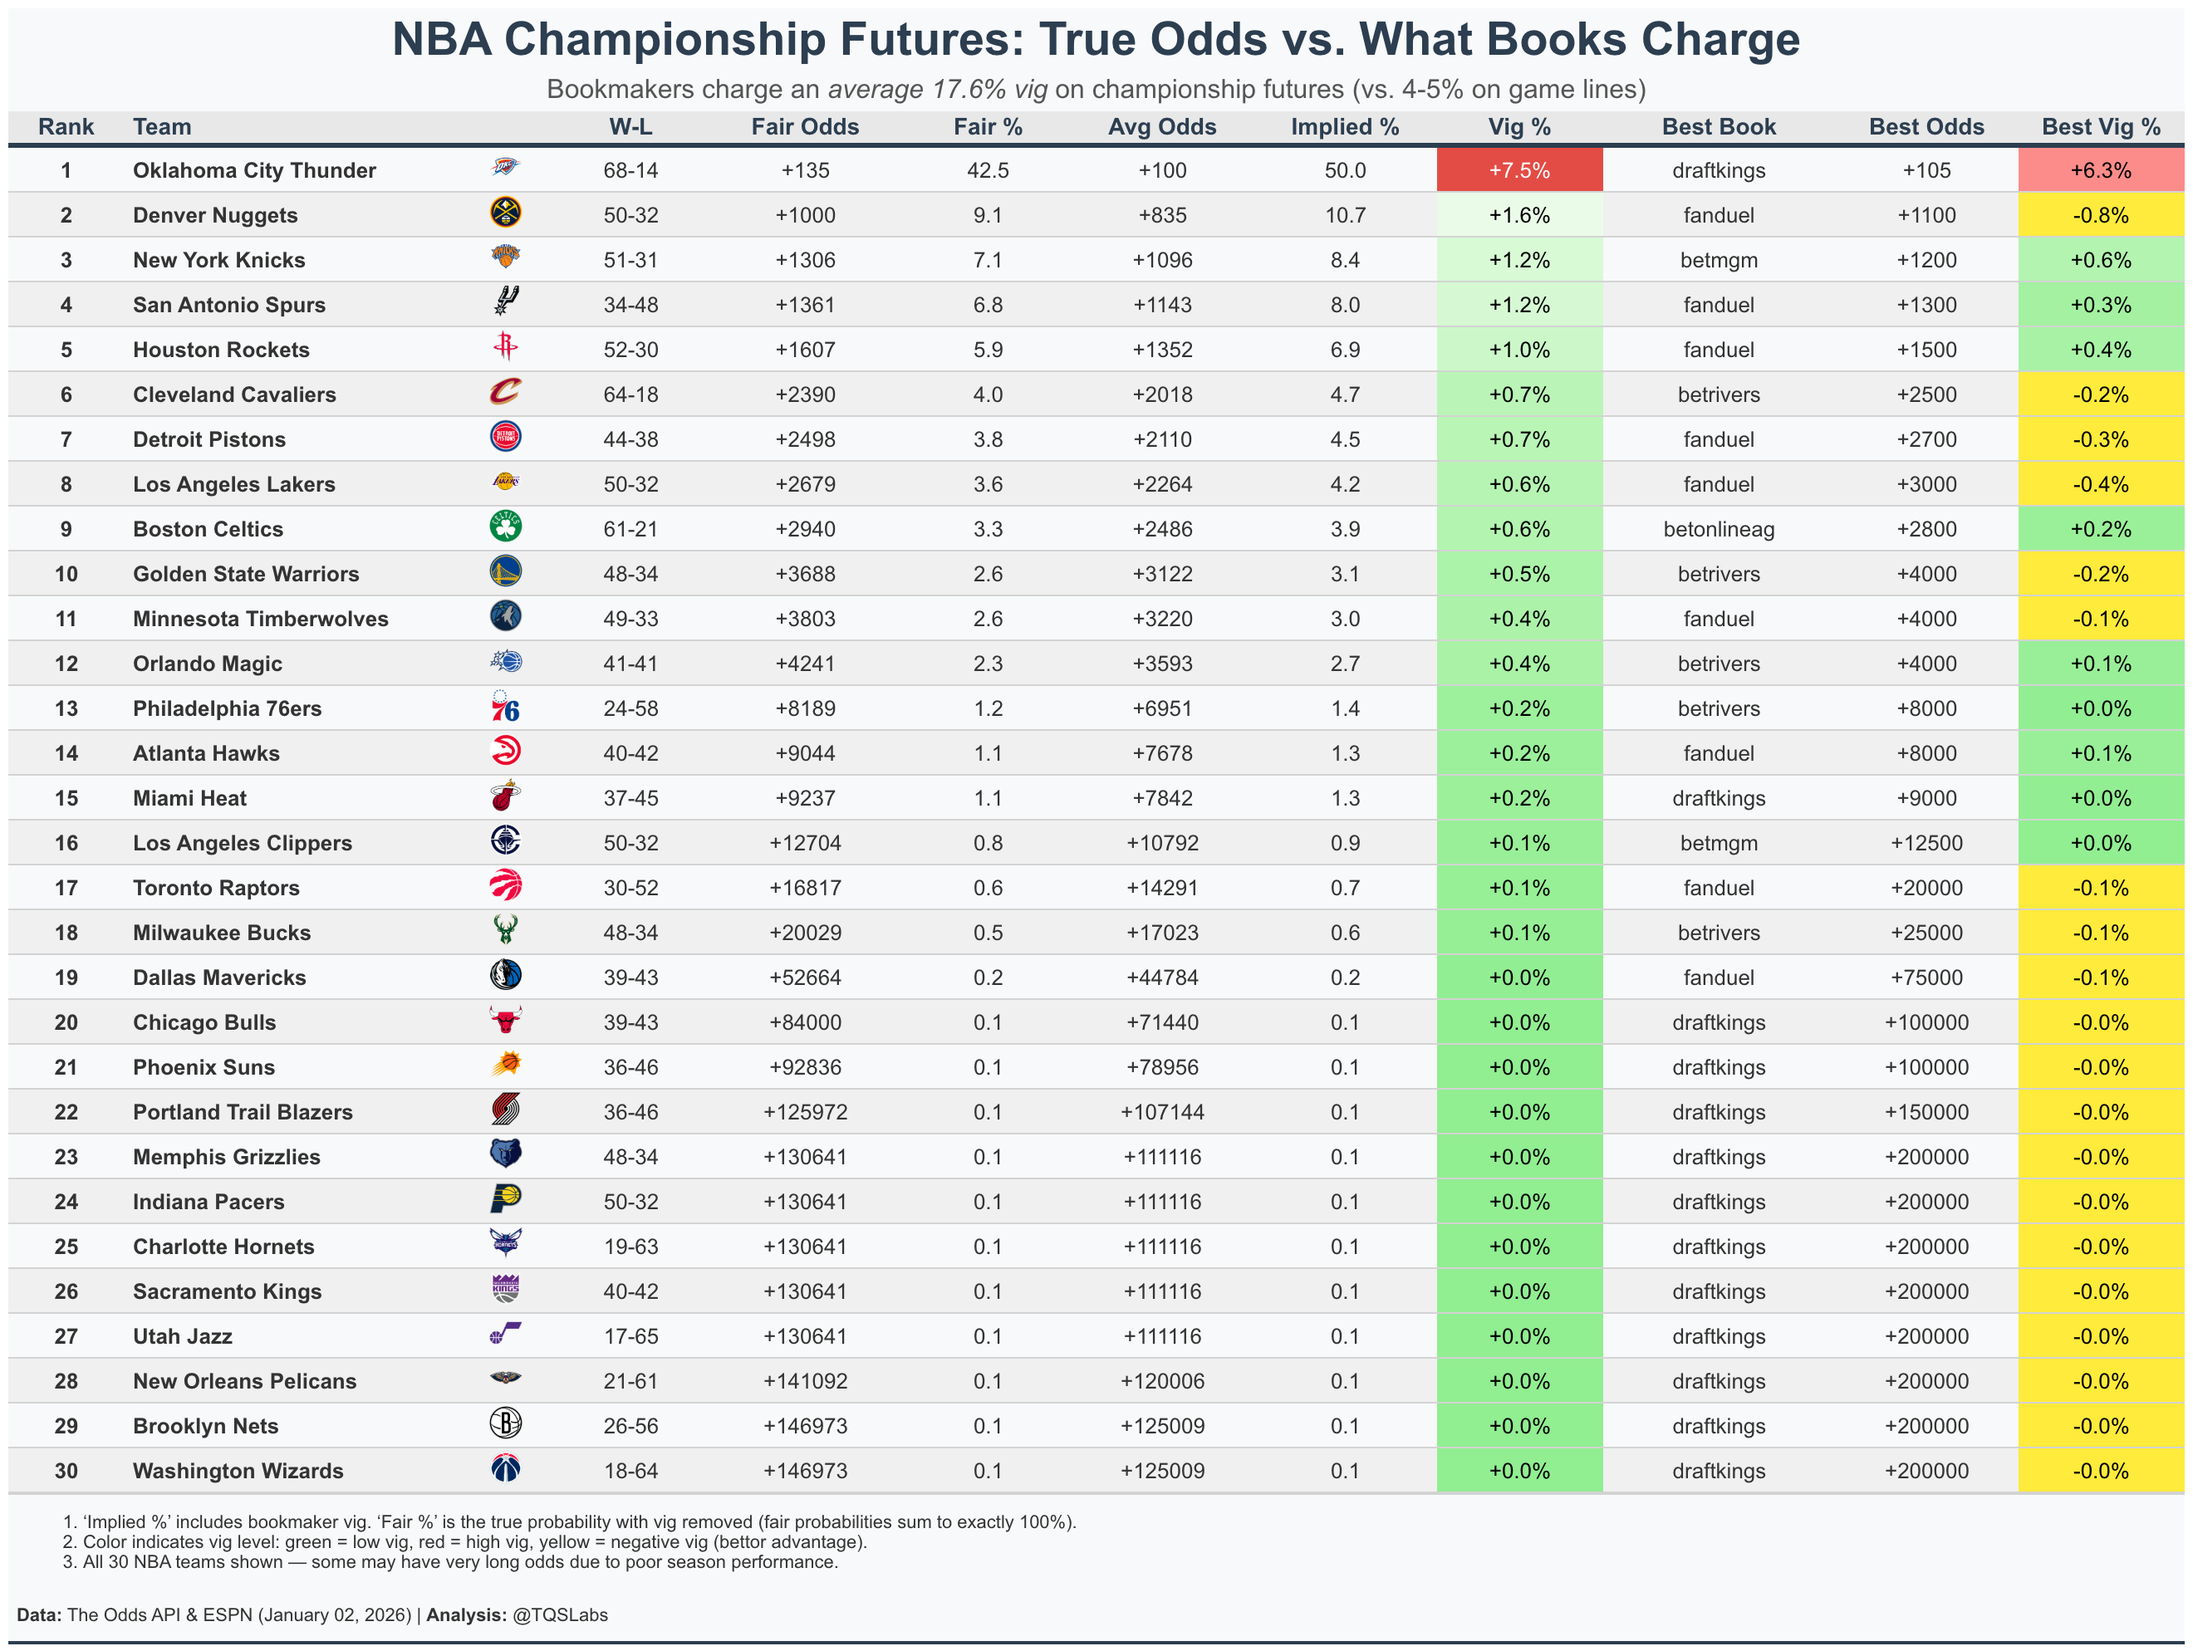
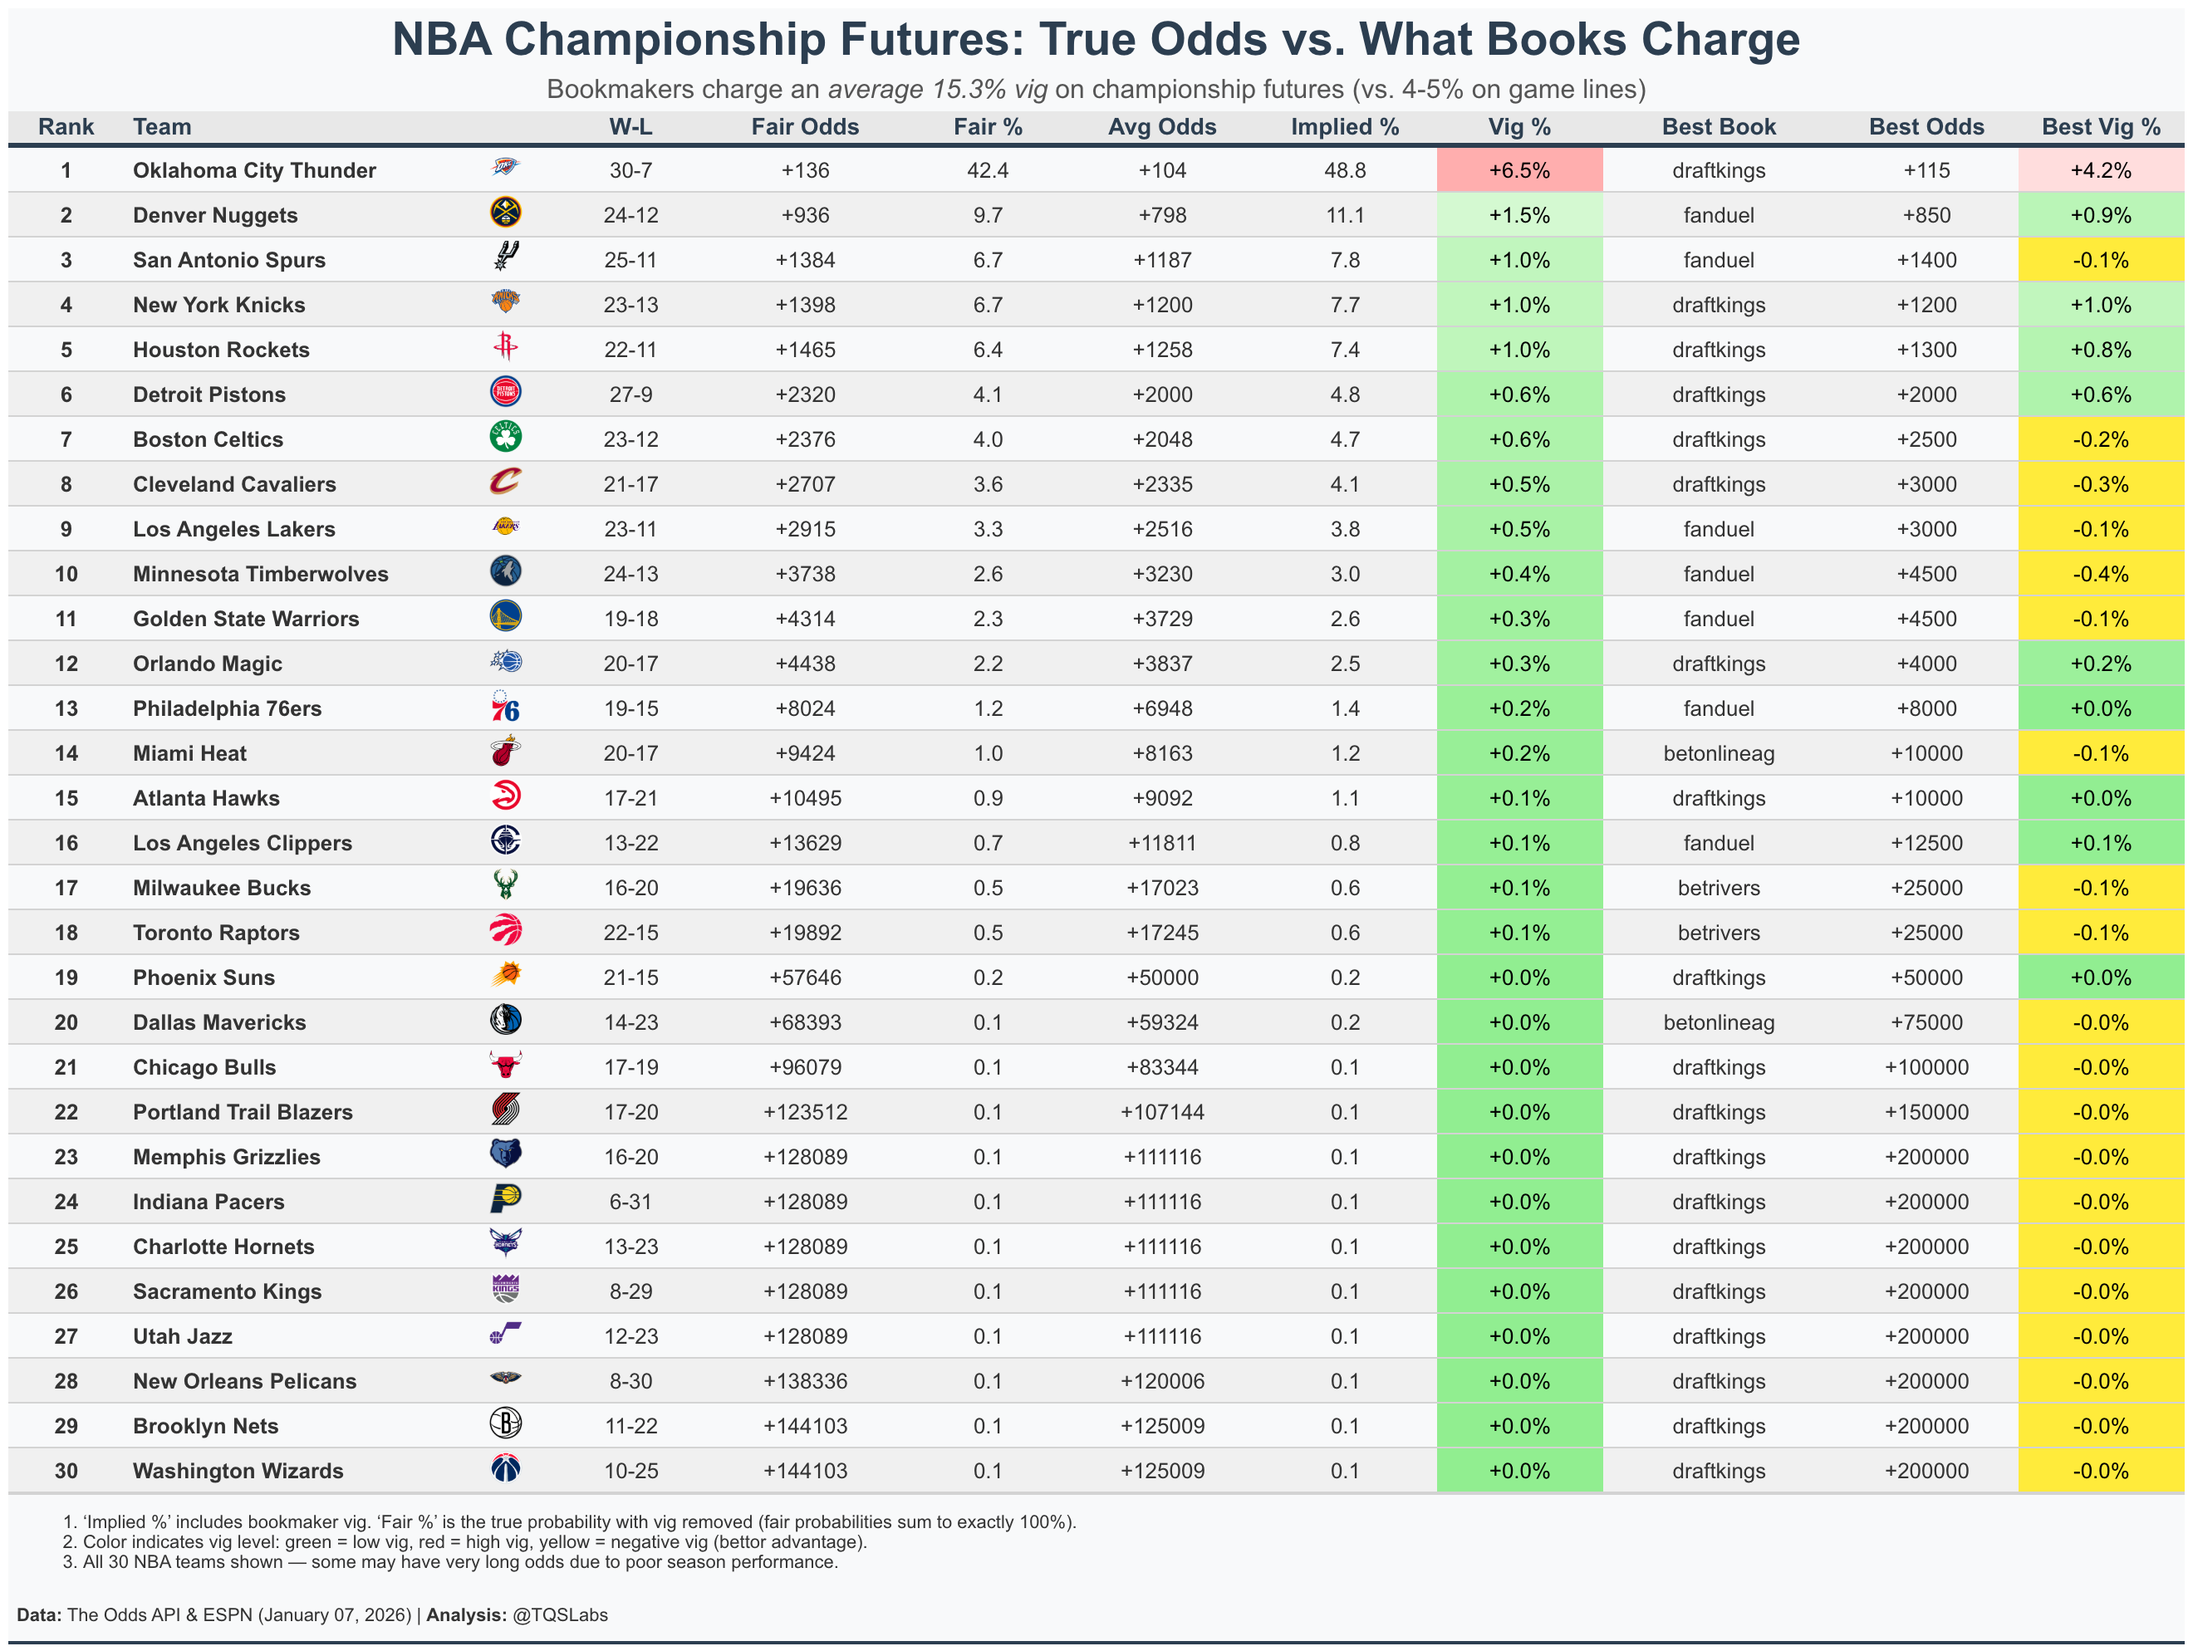
update content

diff --git a/content/writing/x/20260107_nfl_wild_card_luck_plays.md b/content/writing/x/20260107_nfl_wild_card_luck_plays.md
@@ -1,0 +1,38 @@
+wild card plays (model: lucky v unlucky). 39-30 (56.5%) on regular season
+
+card:
+pit +3.5
+lac +4.0
+
+transparency: week 18 was garbage for data (teams resting, meaningless games). applying that to playoffs is a stretch
+
+posting these because that's what the model says, but lower confidence than usual. we'll see if luck regression still applies
+
+---
+
+## Context / Extended Version
+
+Wild Card Round Plays:
+
+**Pittsburgh +3.5** vs Houston
+- PIT unlucky in Week 18 win vs BAL (-4.7 luck: scored 26 exp 22.3, allowed 24 exp 15.6)
+- HOU very lucky vs IND (+5.5 luck: scored 38 exp 24.1, allowed 30 exp 21.6)
+- Best line: +3.5 @ MyBookie (-120)
+- Game: Monday 1/12 8:00 PM ET
+
+**LA Chargers +4.0** vs New England
+- LAC very unlucky vs DEN (-9.6 luck: scored 3 exp 8.6, allowed 19 exp 15.0)
+- NE extremely lucky vs MIA (+11.4 luck: scored 38 exp 40.3, allowed 10 exp 23.7)
+- Best line: +4.0 @ Bovada (-115)
+- Game: Sunday 1/11 8:00 PM ET
+
+---
+
+## Model Notes
+- Threshold: ±3 luck points
+- Data through Week 18
+- 2 out of 6 wild card games qualify as Lucky vs Unlucky matchups
+- Both plays are underdogs (unlucky last week) vs favorites (lucky last week)
+- Season record: 39-30 (56.5%)
+- Week 18 context: Many teams rested starters, now everyone's playing for real
+

diff --git a/content/writing/x/20260107_okc_jazz_line_movement.md b/content/writing/x/20260107_okc_jazz_line_movement.md
@@ -1,0 +1,35 @@
+okc vs utah (tonight 8:10pm ET)
+
+opened: -19.5 to -20
+now: -17.0 to -17.5
+
+2.5-point move toward utah in <1 hour. interesting for a blowout spread
+
+---
+
+## Context / Extended Version
+
+**Utah Jazz @ Oklahoma City Thunder**
+- Game time: Tonight 8:10 PM ET
+- Opening line: OKC -19.5 to -20 across books
+- Current line: OKC -17.0 to -17.5
+- Movement: 2.5 points toward Utah in under 1 hour
+
+**Book-by-Book Current Lines:**
+- BetRivers: OKC -17.0 (-114) [most aggressive toward Utah]
+- BetOnline: OKC -17.5 (-110)
+- BetUS: OKC -17.5 (-110)
+- Fanatics: OKC -17.5 (-110)
+- LowVig: OKC -17.5 (-106)
+- MyBookie: OKC -17.5 (-110)
+
+**Why This Matters:**
+- 2.5-point movement in <1 hour is significant
+- Unanimous cross-book movement = sharp action, not just one sportsbook
+- When a 20-point favorite drops this fast, usually means:
+  - Sharp money on the underdog
+  - Late injury news
+  - Roster changes
+
+Worth monitoring injury reports before tip-off.
+
